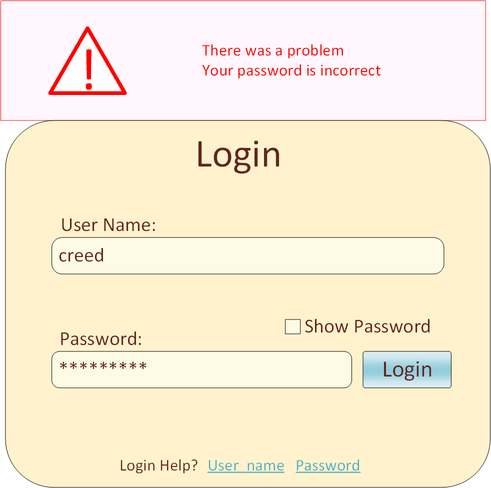
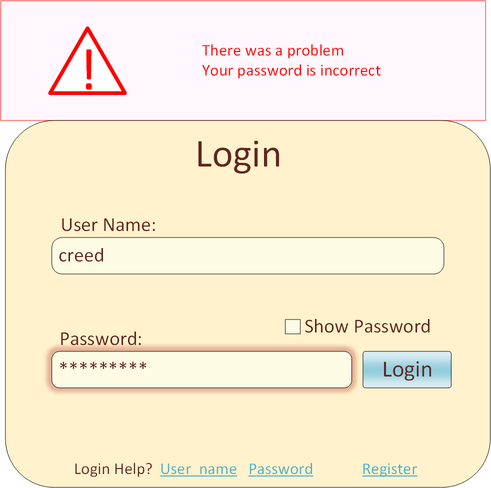
Fix typos

Changed region(s): [[0.0916, 0.707, 0.7332, 0.8299], [0.1527, 0.9221, 0.8554, 0.9836]]

diff --git a/sphinx_doc/dashboard.md b/sphinx_doc/dashboard.md
@@ -87,6 +87,8 @@ to the User's Properties. For example:
   
 ## Registration <a name="Registration"></a>
 
+**Update: Omit copyright notice shown in examples** 
+
 Guests access the Registration form from the *Register/Login* link in the top bar of the Home Page which is a persistent navigation element, found
 in most pages. 
 
@@ -113,6 +115,7 @@ Additionally:
 + "Create account" submit button.  
 + A 'Log in' link to the login page.  
 + A '© 2016 I5k - All Rights Reserved' foot notice.  
++ A hidden honeypot security field.
 
 For example:
 ---
@@ -235,16 +238,20 @@ The Registration form data sent by the browser arrives at the Dashboard as a *Re
 ### CAS Registration
 
 - TBD 
-
-
+&nbsp;  
+&nbsp;  
+&nbsp;  
 ## Login <a name="Login"></a>
 
-The login clickable is part of the *Registration/Login* dual link in the permanent navigation mast at the top of the page, 
-as long as the User in not logged in. Upon a successful login, the browser loads the User Page. 
+The login clickable is part of the *Registration/Login* dual link in the persistent navigation mast at the top of the page,
+as long as the User in not logged in. Upon a successful login, the browser loads the User Page, where the greeting *Hello \<User's first name\>* 
+substitutes the *Registration/Login* link.
 
-If login fails, the User can ask for help to retrive their user name via email, or by requesting a new password. Beyond that, 
-if difficulties remain the User can send email explaining the issue, or call the helpdesk, when available. The following section shows 
+If login fails, the User can ask for help to retrieve their user name via email, or by requesting a new password. Beyond that,
+if difficulties remain the User can send email explaining the issue, or call the helpdesk, when available. The following sections show
 the login steps and examples of the screens shown.
+
+All Login pages and dialogs to be submitted to the server must include a hidden honeypot security field. 
 
 ### Password Requirements
 Valid passwords contain at least eight characters, a letter, and a digit. 
@@ -263,22 +270,21 @@ For example:
 Pressing \<Enter\> after entering the Password, activates the Login submit button. 
 &nbsp;  
 &nbsp;  
-In all Login screeens and dialogs when clicking an input field to enter text a red glow appears around the field.
+In all Login screens and dialogs when clicking an input field to enter text a green glow appears around the field.  
 
 ![alt text](img/Login1FirstGlow.png)
 ---
 &nbsp;  
 &nbsp;  
-
-A check box gives the option to show the password as is, otherwise password charactes show as asterisks. 
+A check box gives the option to show the password as is, otherwise password characters show as asterisks. 
 
 ---
 ![alt text](img/Login1ShowPwd.png)
 ---
 &nbsp;  
 &nbsp;  
-
 If the User Name and Password are correct, the User Page follows.  
+In all Login screens and dialogs a red glow appears around fields that fail validation.  
 If the User Name is incorrect a prominent warning displays the error: 
 
 ---
@@ -286,14 +292,13 @@ If the User Name is incorrect a prominent warning displays the error:
 ---
 &nbsp;  
 &nbsp;  
-
 If the Password is incorrect a prominent warning displays the error: 
 
 ---
 ![alt text](img/Login1BadPwd.png)
 ---
-&nbsp; 
-&nbsp; 
+&nbsp;  
+&nbsp;  
 #### Login Help
 
 The User can ask for help to either get a reminder of their User Name, or receive a link to the page to change the Password. Both procedures 
@@ -307,34 +312,38 @@ For example, after clicking either *User Name* or *Password* on the *Login Help?
 ---
 ![alt text](img/LoginHelp1.png)
 ---
-&nbsp; 
-&nbsp; 
-
-If the User cannot provide the email addres of an existing account, the only recourse is to contact us, for which we provide a link.  
+&nbsp;  
+&nbsp;  
+If the User cannot provide the email address of an existing account, the only recourse is to contact us, for which we provide a link.  
 
 ---
 ![alt text](img/LoginHelp1EmailError.png)
 ---
-&nbsp; 
-&nbsp; 
-
+&nbsp;  
+&nbsp;  
 If the email address the user enters correspond to that of an existing account, we proceed to the security page. For example:
 
 ---
 ![alt text](img/LoginHelp2.png)
 ---
-&nbsp; 
-&nbsp; 
-
+&nbsp;  
+&nbsp;  
 If the security question and/or the captcha are incorrect we display a prominent warning:
 
 ---
 ![alt text](img/LoginHelp2Errors.png)
 ---
-&nbsp; 
-&nbsp; 
+&nbsp;  
+&nbsp;  
 
-Upon completion of the security page, if the User requested a User Name reminder we send an email along these lines:
+Upon completion of the security page, we inform the user that we sent an email with the help information requested.
+
+---
+![alt text](img/LoginHelp2EmailConfirmation.png)
+---
+&nbsp;  
+&nbsp;  
+If the User requested a User Name reminder we send an email along these lines:
 
     You requested a reminder of your I5k account user name:
 
@@ -346,12 +355,46 @@ If instead the User requested password help the email contains a link to the Ent
 ![alt text](img/NewPassword.png)
 ---
 
-If the new password does not follow our password rules the help message turns red.  
+If the new password does not follow the password rules the help message turns red.  
 
 If the new password passes validation then we redirect the User to a Login Page.  
 
-&nbsp; 
-&nbsp; 
+Users experiencing unresolved difficulties can click the *Having trouble or sight impaired* link to
+email us (or phone us when the helpdesk becomes available). For example:
+
+---
+![alt text](img/LoginAccountHelp.png)
+---
+&nbsp;  
+&nbsp;  
+&nbsp;  
+## Applications  <a name="Applications"></a>
+
+
+
+- TBD
+
+
+
+
+If the User requested a User Name reminder we send an email along these lines:
+
+    You requested a reminder of your I5k account user name:
+
+    Your user name is: creed
+
+If instead, the User requested password help the email contains a link to the Enter New Password Page. For example:  
+
+---
+![alt text](img/NewPassword.png)
+---
+
+If the new password does not follow the password rules the help message turns red.  
+
+If the new password passes validation then we redirect the User to a Login Page.  
+
+&nbsp;  
+&nbsp;  
 
 ## Applications  <a name="Applications"></a>
 
